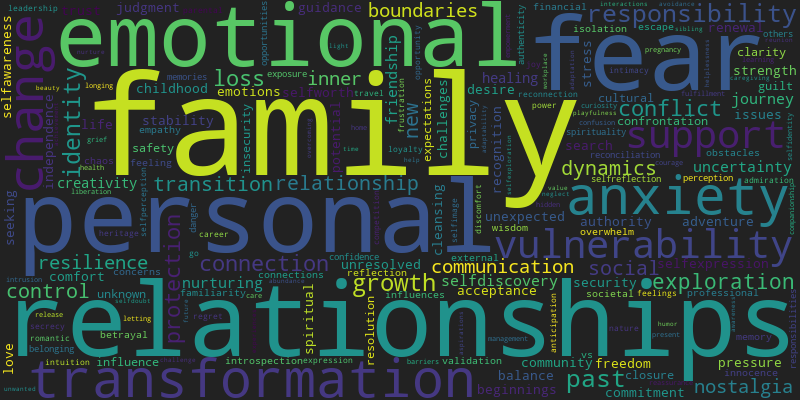
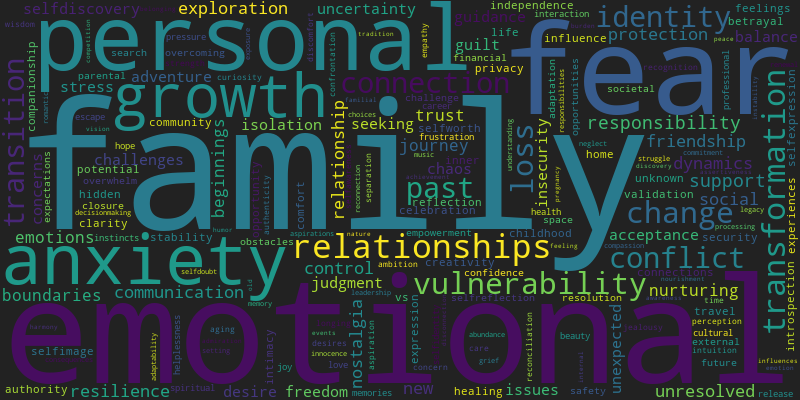
Add files via upload

diff --git a/index.html b/index.html
@@ -1,6 +1,6 @@
 <div style="padding-top: 50px;"></div>
 <h1 style="text-align:center;">Dreamverse State</h1>
-<h2 style="text-align:center;">September 30, 2024</h2>
+<h2 style="text-align:center;">October 31, 2024</h2>
 <div style="padding: 80px;"><html>
     <head>
         <meta charset="utf-8">
@@ -91,8 +91,8 @@
                   
 
                   // parsing and collecting nodes and edges from the python
-                  nodes = new vis.DataSet([{"color": "#CFE401", "font": {"color": "white"}, "id": "transition", "label": "transition", "shape": "dot", "title": "transition"}, {"color": "#CFE401", "font": {"color": "white"}, "id": "change", "label": "change", "shape": "dot", "title": "change"}, {"color": "#CFE401", "font": {"color": "white"}, "id": "growth", "label": "growth", "shape": "dot", "title": "growth"}, {"color": "#CFE401", "font": {"color": "white"}, "id": "identity", "label": "identity", "shape": "dot", "title": "identity"}, {"color": "#CFE401", "font": {"color": "white"}, "id": "transformation", "label": "transformation", "shape": "dot", "title": "transformation"}, {"color": "#CFE401", "font": {"color": "white"}, "id": "nostalgia", "label": "nostalgia", "shape": "dot", "title": "nostalgia"}, {"color": "#30AF31", "font": {"color": "white"}, "id": "anxiety", "label": "anxiety", "shape": "dot", "title": "anxiety"}, {"color": "#CFE401", "font": {"color": "white"}, "id": "uncertainty", "label": "uncertainty", "shape": "dot", "title": "uncertainty"}, {"color": "#1B681B", "font": {"color": "white"}, "id": "relationships", "label": "relationships", "shape": "dot", "title": "relationships"}, {"color": "#1B681B", "font": {"color": "white"}, "id": "friendship", "label": "friendship", "shape": "dot", "title": "friendship"}, {"color": "#CFE401", "font": {"color": "white"}, "id": "journey", "label": "journey", "shape": "dot", "title": "journey"}, {"color": "#30AF31", "font": {"color": "white"}, "id": "family", "label": "family", "shape": "dot", "title": "family"}, {"color": "#37807D", "font": {"color": "white"}, "id": "new beginnings", "label": "new beginnings", "shape": "dot", "title": "new beginnings"}, {"color": "#30AF31", "font": {"color": "white"}, "id": "nurturing", "label": "nurturing", "shape": "dot", "title": "nurturing"}, {"color": "#37807D", "font": {"color": "white"}, "id": "support", "label": "support", "shape": "dot", "title": "support"}, {"color": "#37807D", "font": {"color": "white"}, "id": "potential", "label": "potential", "shape": "dot", "title": "potential"}, {"color": "#30AF31", "font": {"color": "white"}, "id": "trust", "label": "trust", "shape": "dot", "title": "trust"}, {"color": "#30AF31", "font": {"color": "white"}, "id": "fear", "label": "fear", "shape": "dot", "title": "fear"}, {"color": "#1B681B", "font": {"color": "white"}, "id": "adventure", "label": "adventure", "shape": "dot", "title": "adventure"}, {"color": "#37807D", "font": {"color": "white"}, "id": "loss", "label": "loss", "shape": "dot", "title": "loss"}, {"color": "#30AF31", "font": {"color": "white"}, "id": "vulnerability", "label": "vulnerability", "shape": "dot", "title": "vulnerability"}, {"color": "#1B681B", "font": {"color": "white"}, "id": "creativity", "label": "creativity", "shape": "dot", "title": "creativity"}, {"color": "#1B681B", "font": {"color": "white"}, "id": "selfdiscovery", "label": "selfdiscovery", "shape": "dot", "title": "selfdiscovery"}, {"color": "#1B681B", "font": {"color": "white"}, "id": "selfexpression", "label": "selfexpression", "shape": "dot", "title": "selfexpression"}, {"color": "#CFE401", "font": {"color": "white"}, "id": "renewal", "label": "renewal", "shape": "dot", "title": "renewal"}, {"color": "#CFE401", "font": {"color": "white"}, "id": "personal growth", "label": "personal growth", "shape": "dot", "title": "personal growth"}, {"color": "#CFE401", "font": {"color": "white"}, "id": "healing", "label": "healing", "shape": "dot", "title": "healing"}, {"color": "#30AF31", "font": {"color": "white"}, "id": "protection", "label": "protection", "shape": "dot", "title": "protection"}, {"color": "#CFE401", "font": {"color": "white"}, "id": "spirituality", "label": "spirituality", "shape": "dot", "title": "spirituality"}, {"color": "#CFE401", "font": {"color": "white"}, "id": "reconciliation", "label": "reconciliation", "shape": "dot", "title": "reconciliation"}, {"color": "#30AF31", "font": {"color": "white"}, "id": "family dynamics", "label": "family dynamics", "shape": "dot", "title": "family dynamics"}, {"color": "#30AF31", "font": {"color": "white"}, "id": "responsibility", "label": "responsibility", "shape": "dot", "title": "responsibility"}, {"color": "#30AF31", "font": {"color": "white"}, "id": "empathy", "label": "empathy", "shape": "dot", "title": "empathy"}, {"color": "#1B681B", "font": {"color": "white"}, "id": "exploration", "label": "exploration", "shape": "dot", "title": "exploration"}, {"color": "#30AF31", "font": {"color": "white"}, "id": "overwhelm", "label": "overwhelm", "shape": "dot", "title": "overwhelm"}, {"color": "#30AF31", "font": {"color": "white"}, "id": "caregiving", "label": "caregiving", "shape": "dot", "title": "caregiving"}, {"color": "#30AF31", "font": {"color": "white"}, "id": "stress", "label": "stress", "shape": "dot", "title": "stress"}, {"color": "#30AF31", "font": {"color": "white"}, "id": "resilience", "label": "resilience", "shape": "dot", "title": "resilience"}, {"color": "#30AF31", "font": {"color": "white"}, "id": "exposure", "label": "exposure", "shape": "dot", "title": "exposure"}, {"color": "#CFE401", "font": {"color": "white"}, "id": "confusion", "label": "confusion", "shape": "dot", "title": "confusion"}, {"color": "#CFE401", "font": {"color": "white"}, "id": "cultural heritage", "label": "cultural heritage", "shape": "dot", "title": "cultural heritage"}, {"color": "#CFE401", "font": {"color": "white"}, "id": "childhood", "label": "childhood", "shape": "dot", "title": "childhood"}, {"color": "#1B681B", "font": {"color": "white"}, "id": "freedom", "label": "freedom", "shape": "dot", "title": "freedom"}, {"color": "#FEDF55", "font": {"color": "white"}, "id": "boundaries", "label": "boundaries", "shape": "dot", "title": "boundaries"}, {"color": "#FEDF55", "font": {"color": "white"}, "id": "control", "label": "control", "shape": "dot", "title": "control"}, {"color": "#30AF31", "font": {"color": "white"}, "id": "escape", "label": "escape", "shape": "dot", "title": "escape"}, {"color": "#37807D", "font": {"color": "white"}, "id": "grief", "label": "grief", "shape": "dot", "title": "grief"}]);
-                  edges = new vis.DataSet([{"from": "transition", "to": "change", "value": 4}, {"from": "change", "to": "growth", "value": 4}, {"from": "change", "to": "identity", "value": 7}, {"from": "change", "to": "transformation", "value": 8}, {"from": "change", "to": "nostalgia", "value": 5}, {"from": "change", "to": "anxiety", "value": 5}, {"from": "change", "to": "uncertainty", "value": 4}, {"from": "growth", "to": "identity", "value": 4}, {"from": "identity", "to": "transformation", "value": 5}, {"from": "identity", "to": "responsibility", "value": 4}, {"from": "identity", "to": "protection", "value": 4}, {"from": "identity", "to": "cultural heritage", "value": 4}, {"from": "transformation", "to": "relationships", "value": 5}, {"from": "transformation", "to": "journey", "value": 5}, {"from": "transformation", "to": "support", "value": 4}, {"from": "transformation", "to": "creativity", "value": 4}, {"from": "transformation", "to": "uncertainty", "value": 4}, {"from": "transformation", "to": "renewal", "value": 7}, {"from": "transformation", "to": "nostalgia", "value": 6}, {"from": "transformation", "to": "family", "value": 4}, {"from": "transformation", "to": "personal growth", "value": 4}, {"from": "transformation", "to": "selfdiscovery", "value": 6}, {"from": "transformation", "to": "healing", "value": 7}, {"from": "transformation", "to": "protection", "value": 4}, {"from": "transformation", "to": "spirituality", "value": 4}, {"from": "transformation", "to": "reconciliation", "value": 4}, {"from": "nostalgia", "to": "responsibility", "value": 4}, {"from": "nostalgia", "to": "childhood", "value": 4}, {"from": "anxiety", "to": "responsibility", "value": 11}, {"from": "anxiety", "to": "vulnerability", "value": 8}, {"from": "anxiety", "to": "family", "value": 7}, {"from": "anxiety", "to": "uncertainty", "value": 5}, {"from": "anxiety", "to": "fear", "value": 5}, {"from": "anxiety", "to": "protection", "value": 7}, {"from": "uncertainty", "to": "journey", "value": 4}, {"from": "uncertainty", "to": "family", "value": 4}, {"from": "uncertainty", "to": "confusion", "value": 4}, {"from": "relationships", "to": "friendship", "value": 4}, {"from": "friendship", "to": "adventure", "value": 4}, {"from": "journey", "to": "family", "value": 4}, {"from": "family", "to": "responsibility", "value": 9}, {"from": "family", "to": "vulnerability", "value": 4}, {"from": "family", "to": "fear", "value": 4}, {"from": "family", "to": "protection", "value": 12}, {"from": "new beginnings", "to": "nurturing", "value": 6}, {"from": "new beginnings", "to": "support", "value": 4}, {"from": "new beginnings", "to": "potential", "value": 5}, {"from": "nurturing", "to": "responsibility", "value": 8}, {"from": "nurturing", "to": "protection", "value": 4}, {"from": "support", "to": "loss", "value": 4}, {"from": "support", "to": "vulnerability", "value": 4}, {"from": "trust", "to": "fear", "value": 6}, {"from": "fear", "to": "vulnerability", "value": 4}, {"from": "fear", "to": "resilience", "value": 4}, {"from": "fear", "to": "protection", "value": 4}, {"from": "fear", "to": "escape", "value": 4}, {"from": "adventure", "to": "exploration", "value": 4}, {"from": "loss", "to": "responsibility", "value": 5}, {"from": "loss", "to": "protection", "value": 4}, {"from": "loss", "to": "grief", "value": 4}, {"from": "vulnerability", "to": "family dynamics", "value": 4}, {"from": "vulnerability", "to": "responsibility", "value": 9}, {"from": "vulnerability", "to": "stress", "value": 4}, {"from": "vulnerability", "to": "resilience", "value": 4}, {"from": "vulnerability", "to": "protection", "value": 9}, {"from": "vulnerability", "to": "exposure", "value": 5}, {"from": "creativity", "to": "selfdiscovery", "value": 5}, {"from": "creativity", "to": "selfexpression", "value": 6}, {"from": "selfdiscovery", "to": "exploration", "value": 6}, {"from": "protection", "to": "responsibility", "value": 13}, {"from": "protection", "to": "resilience", "value": 7}, {"from": "family dynamics", "to": "responsibility", "value": 4}, {"from": "responsibility", "to": "empathy", "value": 4}, {"from": "responsibility", "to": "overwhelm", "value": 5}, {"from": "responsibility", "to": "caregiving", "value": 4}, {"from": "exploration", "to": "freedom", "value": 4}, {"from": "boundaries", "to": "control", "value": 4}]);
+                  nodes = new vis.DataSet([{"color": "#C18D49", "font": {"color": "white"}, "id": "selfdiscovery", "label": "selfdiscovery", "shape": "dot", "title": "selfdiscovery"}, {"color": "#C18D49", "font": {"color": "white"}, "id": "transition", "label": "transition", "shape": "dot", "title": "transition"}, {"color": "#C18D49", "font": {"color": "white"}, "id": "personal growth", "label": "personal growth", "shape": "dot", "title": "personal growth"}, {"color": "#C18D49", "font": {"color": "white"}, "id": "change", "label": "change", "shape": "dot", "title": "change"}, {"color": "#587FA1", "font": {"color": "white"}, "id": "uncertainty", "label": "uncertainty", "shape": "dot", "title": "uncertainty"}, {"color": "#C26042", "font": {"color": "white"}, "id": "resilience", "label": "resilience", "shape": "dot", "title": "resilience"}, {"color": "#C26042", "font": {"color": "white"}, "id": "vulnerability", "label": "vulnerability", "shape": "dot", "title": "vulnerability"}, {"color": "#C26042", "font": {"color": "white"}, "id": "anxiety", "label": "anxiety", "shape": "dot", "title": "anxiety"}, {"color": "#C18D49", "font": {"color": "white"}, "id": "comfort", "label": "comfort", "shape": "dot", "title": "comfort"}, {"color": "#C26042", "font": {"color": "white"}, "id": "isolation", "label": "isolation", "shape": "dot", "title": "isolation"}, {"color": "#BF49D7", "font": {"color": "white"}, "id": "family", "label": "family", "shape": "dot", "title": "family"}, {"color": "#BF49D7", "font": {"color": "white"}, "id": "support", "label": "support", "shape": "dot", "title": "support"}, {"color": "#C18D49", "font": {"color": "white"}, "id": "nostalgia", "label": "nostalgia", "shape": "dot", "title": "nostalgia"}, {"color": "#BF49D7", "font": {"color": "white"}, "id": "tradition", "label": "tradition", "shape": "dot", "title": "tradition"}, {"color": "#BF49D7", "font": {"color": "white"}, "id": "protection", "label": "protection", "shape": "dot", "title": "protection"}, {"color": "#BF49D7", "font": {"color": "white"}, "id": "nurturing", "label": "nurturing", "shape": "dot", "title": "nurturing"}, {"color": "#BF49D7", "font": {"color": "white"}, "id": "security", "label": "security", "shape": "dot", "title": "security"}, {"color": "#C26042", "font": {"color": "white"}, "id": "loss", "label": "loss", "shape": "dot", "title": "loss"}, {"color": "#BF49D7", "font": {"color": "white"}, "id": "responsibility", "label": "responsibility", "shape": "dot", "title": "responsibility"}, {"color": "#C18D49", "font": {"color": "white"}, "id": "identity", "label": "identity", "shape": "dot", "title": "identity"}, {"color": "#C26042", "font": {"color": "white"}, "id": "insecurity", "label": "insecurity", "shape": "dot", "title": "insecurity"}, {"color": "#C26042", "font": {"color": "white"}, "id": "fear", "label": "fear", "shape": "dot", "title": "fear"}, {"color": "#C26042", "font": {"color": "white"}, "id": "selfimage", "label": "selfimage", "shape": "dot", "title": "selfimage"}, {"color": "#C26042", "font": {"color": "white"}, "id": "privacy", "label": "privacy", "shape": "dot", "title": "privacy"}, {"color": "#C26042", "font": {"color": "white"}, "id": "communication", "label": "communication", "shape": "dot", "title": "communication"}, {"color": "#C26042", "font": {"color": "white"}, "id": "loss control", "label": "loss control", "shape": "dot", "title": "loss control"}, {"color": "#C18D49", "font": {"color": "white"}, "id": "transformation", "label": "transformation", "shape": "dot", "title": "transformation"}, {"color": "#C26042", "font": {"color": "white"}, "id": "conflict", "label": "conflict", "shape": "dot", "title": "conflict"}, {"color": "#BF49D7", "font": {"color": "white"}, "id": "overwhelm", "label": "overwhelm", "shape": "dot", "title": "overwhelm"}, {"color": "#BF49D7", "font": {"color": "white"}, "id": "guilt", "label": "guilt", "shape": "dot", "title": "guilt"}, {"color": "#C18D49", "font": {"color": "white"}, "id": "growth", "label": "growth", "shape": "dot", "title": "growth"}, {"color": "#C18D49", "font": {"color": "white"}, "id": "new beginnings", "label": "new beginnings", "shape": "dot", "title": "new beginnings"}, {"color": "#C18D49", "font": {"color": "white"}, "id": "relationships", "label": "relationships", "shape": "dot", "title": "relationships"}, {"color": "#587FA1", "font": {"color": "white"}, "id": "friendship", "label": "friendship", "shape": "dot", "title": "friendship"}, {"color": "#C18D49", "font": {"color": "white"}, "id": "death", "label": "death", "shape": "dot", "title": "death"}, {"color": "#587FA1", "font": {"color": "white"}, "id": "journey", "label": "journey", "shape": "dot", "title": "journey"}, {"color": "#587FA1", "font": {"color": "white"}, "id": "exploration", "label": "exploration", "shape": "dot", "title": "exploration"}, {"color": "#587FA1", "font": {"color": "white"}, "id": "adventure", "label": "adventure", "shape": "dot", "title": "adventure"}, {"color": "#C18D49", "font": {"color": "white"}, "id": "selfexpression", "label": "selfexpression", "shape": "dot", "title": "selfexpression"}, {"color": "#C18D49", "font": {"color": "white"}, "id": "acceptance", "label": "acceptance", "shape": "dot", "title": "acceptance"}, {"color": "#587FA1", "font": {"color": "white"}, "id": "freedom", "label": "freedom", "shape": "dot", "title": "freedom"}, {"color": "#C18D49", "font": {"color": "white"}, "id": "control", "label": "control", "shape": "dot", "title": "control"}, {"color": "#C18D49", "font": {"color": "white"}, "id": "introspection", "label": "introspection", "shape": "dot", "title": "introspection"}, {"color": "#C26042", "font": {"color": "white"}, "id": "trust", "label": "trust", "shape": "dot", "title": "trust"}, {"color": "#FB2069", "font": {"color": "white"}, "id": "unresolved emotions", "label": "unresolved emotions", "shape": "dot", "title": "unresolved emotions"}, {"color": "#FB2069", "font": {"color": "white"}, "id": "past relationships", "label": "past relationships", "shape": "dot", "title": "past relationships"}, {"color": "#FB2069", "font": {"color": "white"}, "id": "intimacy", "label": "intimacy", "shape": "dot", "title": "intimacy"}, {"color": "#C26042", "font": {"color": "white"}, "id": "challenges", "label": "challenges", "shape": "dot", "title": "challenges"}]);
+                  edges = new vis.DataSet([{"from": "selfdiscovery", "to": "transition", "value": 5}, {"from": "selfdiscovery", "to": "personal growth", "value": 7}, {"from": "transition", "to": "change", "value": 6}, {"from": "transition", "to": "personal growth", "value": 5}, {"from": "transition", "to": "uncertainty", "value": 5}, {"from": "transition", "to": "resilience", "value": 5}, {"from": "transition", "to": "vulnerability", "value": 4}, {"from": "transition", "to": "anxiety", "value": 5}, {"from": "transition", "to": "comfort", "value": 4}, {"from": "personal growth", "to": "new beginnings", "value": 5}, {"from": "personal growth", "to": "nostalgia", "value": 5}, {"from": "personal growth", "to": "relationships", "value": 4}, {"from": "personal growth", "to": "transformation", "value": 10}, {"from": "personal growth", "to": "change", "value": 5}, {"from": "change", "to": "family", "value": 6}, {"from": "change", "to": "anxiety", "value": 8}, {"from": "change", "to": "identity", "value": 6}, {"from": "change", "to": "transformation", "value": 17}, {"from": "change", "to": "loss", "value": 5}, {"from": "change", "to": "death", "value": 8}, {"from": "uncertainty", "to": "anxiety", "value": 4}, {"from": "uncertainty", "to": "resilience", "value": 6}, {"from": "uncertainty", "to": "journey", "value": 5}, {"from": "resilience", "to": "isolation", "value": 4}, {"from": "resilience", "to": "vulnerability", "value": 6}, {"from": "resilience", "to": "anxiety", "value": 7}, {"from": "resilience", "to": "transformation", "value": 7}, {"from": "resilience", "to": "fear", "value": 8}, {"from": "resilience", "to": "challenges", "value": 4}, {"from": "vulnerability", "to": "isolation", "value": 4}, {"from": "vulnerability", "to": "support", "value": 4}, {"from": "vulnerability", "to": "anxiety", "value": 14}, {"from": "vulnerability", "to": "insecurity", "value": 5}, {"from": "vulnerability", "to": "responsibility", "value": 4}, {"from": "vulnerability", "to": "fear", "value": 4}, {"from": "vulnerability", "to": "selfimage", "value": 5}, {"from": "vulnerability", "to": "loss", "value": 5}, {"from": "vulnerability", "to": "comfort", "value": 4}, {"from": "vulnerability", "to": "privacy", "value": 5}, {"from": "anxiety", "to": "family", "value": 9}, {"from": "anxiety", "to": "communication", "value": 4}, {"from": "anxiety", "to": "fear", "value": 13}, {"from": "anxiety", "to": "selfimage", "value": 4}, {"from": "anxiety", "to": "loss control", "value": 6}, {"from": "anxiety", "to": "transformation", "value": 5}, {"from": "anxiety", "to": "responsibility", "value": 4}, {"from": "anxiety", "to": "loss", "value": 8}, {"from": "anxiety", "to": "protection", "value": 6}, {"from": "anxiety", "to": "conflict", "value": 4}, {"from": "comfort", "to": "nostalgia", "value": 4}, {"from": "family", "to": "support", "value": 6}, {"from": "family", "to": "nostalgia", "value": 5}, {"from": "family", "to": "tradition", "value": 4}, {"from": "family", "to": "protection", "value": 13}, {"from": "family", "to": "nurturing", "value": 4}, {"from": "family", "to": "security", "value": 4}, {"from": "family", "to": "loss", "value": 9}, {"from": "family", "to": "responsibility", "value": 5}, {"from": "family", "to": "identity", "value": 4}, {"from": "support", "to": "responsibility", "value": 5}, {"from": "nostalgia", "to": "relationships", "value": 4}, {"from": "nostalgia", "to": "transformation", "value": 5}, {"from": "nostalgia", "to": "friendship", "value": 4}, {"from": "protection", "to": "responsibility", "value": 5}, {"from": "protection", "to": "nurturing", "value": 4}, {"from": "protection", "to": "fear", "value": 4}, {"from": "nurturing", "to": "new beginnings", "value": 5}, {"from": "loss", "to": "fear", "value": 4}, {"from": "responsibility", "to": "overwhelm", "value": 4}, {"from": "responsibility", "to": "guilt", "value": 4}, {"from": "responsibility", "to": "growth", "value": 4}, {"from": "identity", "to": "new beginnings", "value": 4}, {"from": "identity", "to": "relationships", "value": 6}, {"from": "identity", "to": "selfexpression", "value": 4}, {"from": "identity", "to": "transformation", "value": 7}, {"from": "identity", "to": "acceptance", "value": 5}, {"from": "fear", "to": "conflict", "value": 4}, {"from": "fear", "to": "transformation", "value": 11}, {"from": "communication", "to": "trust", "value": 4}, {"from": "transformation", "to": "journey", "value": 4}, {"from": "transformation", "to": "exploration", "value": 7}, {"from": "transformation", "to": "control", "value": 4}, {"from": "transformation", "to": "death", "value": 7}, {"from": "transformation", "to": "introspection", "value": 4}, {"from": "transformation", "to": "growth", "value": 5}, {"from": "friendship", "to": "exploration", "value": 4}, {"from": "friendship", "to": "adventure", "value": 6}, {"from": "journey", "to": "exploration", "value": 5}, {"from": "exploration", "to": "adventure", "value": 5}, {"from": "exploration", "to": "freedom", "value": 7}, {"from": "unresolved emotions", "to": "past relationships", "value": 6}, {"from": "unresolved emotions", "to": "intimacy", "value": 4}]);
 
                   nodeColors = {};
                   allNodes = nodes.get({ returnType: "Object" });
@@ -193,43 +193,40 @@
     
 <br>
 <h1>Initial Reflection</h1>
-<h2>Dreams offer a glimpse into the unconscious mind, revealing the deep-seated fears, desires, and transformative processes within each Seer. The constellations we uncover here are not just random clusters of thoughts, but profound maps of psychological and existential meaning. Each constellation carries insight into individual growth, societal tensions, and the universal quest for meaning. By exploring these constellations, we can better understand not only ourselves but the world around us.</h2>
+<h2>The Dreamverse is a shared psychological landscape, where themes flow like rivers from individual streams into a collective ocean of meaning. These themes, or constellations, emerge as clusters of symbolic experiences, acting as guiding lights for Seers on their journeys of self-discovery. Each constellation signifies a particular area of the psyche, offering reflections on the challenges and aspirations embedded within our shared unconscious. The patterns reveal how humanity navigates the space between personal growth, uncertainty, resilience, familial bonds, and unresolved desires. Through exploring these constellations, Seers are invited to understand not only their individual journeys but the interconnectedness of human experience, fostering insight and growth.</h2>
 <br>
 
 <details>
-  <summary><h1>Name of The Constellation 1: The Inner Conflict of Transformation</h1></summary>
-  <h2>This constellation represents a battle between old identities and new selves. Themes of death, rebirth, change, and resistance are prominent. Psychologically, this cluster points toward the challenges of personal growth, where the desire for transformation is met with internal resistance. Seers might feel stuck between letting go of the familiar and embracing the unknown. The struggle reflects both individual and collective shifts, mirroring how societies face upheavals before growth and evolution.</h2>
+  <summary><h1>Constellation of Self-Discovery and Transformation</h1></summary>
+  <h2>This constellation represents the timeless journey of transformation that each Seer undergoes. The themes here – self-discovery, transition, growth, and acceptance – reflect an inner pilgrimage where one confronts change, explores identity, and embraces new beginnings. This path is often accompanied by nostalgia and introspection, as the old self is remembered and released. Death and control serve as reminders of life’s impermanence and the limited power we hold over external forces, underscoring the importance of self-expression and relational growth. This constellation is a powerful call to Seers to honor the cycles of transformation within themselves, encouraging both surrender and active participation in the emergence of their authentic selves.</h2>
 </details>
 <br>
 
 <details>
-  <summary><h1>Name of The Constellation 2: The Search for Belonging</h1></summary>
-  <h2>Themes of isolation, community, and connection weave through this constellation. Dreams that reveal yearning for acceptance or fear of exclusion show the Seer's deep need for belonging. On a societal level, this constellation reflects the global tension between individualism and collectivism, and the underlying anxiety many feel about finding their place in an increasingly disconnected world. Psychologically, these dreams highlight the importance of relationships in our development and the existential dread of being alone.</h2>
+  <summary><h1>Constellation of Adventure and Freedom</h1></summary>
+  <h2>This grouping emphasizes the human need for freedom, exploration, and the joy of discovery. It mirrors an adventurous spirit that seeks novelty and embraces uncertainty. Through friendship and journeying, Seers experience the companionship and shared wonder that comes with venturing into the unknown. This constellation invites reflection on the importance of breaking away from routine and seeking the world beyond comfort zones, a process that reawakens curiosity and reveals the boundless possibilities that lie ahead. Here, Seers are inspired to see life as a grand adventure, with every moment presenting a new opportunity for connection and self-expansion.</h2>
 </details>
 <br>
 
 <details>
-  <summary><h1>Name of The Constellation 3: The Exploration of the Unknown</h1></summary>
-  <h2>Here, themes of adventure, discovery, and curiosity come together. This constellation speaks to the universal human urge to explore the unknown, both within the self and in the outer world. Dreams of distant lands, unfamiliar faces, or uncharted territories point to the Seer's deep desire for growth and novelty. Psychologically, this cluster reflects a period of expansion and openness in the Seer's life, where the comfort of routine is replaced with a drive for self-exploration.</h2>
+  <summary><h1>Constellation of Resilience and Vulnerability</h1></summary>
+  <h2>In this constellation, the deep-seated themes of anxiety, isolation, trust, and resilience converge. It reflects the psychological terrain encountered when confronting internal and external challenges. Vulnerability, fear, and insecurity emerge as facets of self-image and privacy, often stirred by the potential for loss or conflict. This constellation serves as a powerful reminder of the courage required to communicate authentically and to rebuild trust in oneself and others. In the face of perceived threats to security, Seers are encouraged to tap into their inner strength and to view each challenge as an opportunity to cultivate resilience and deepen self-knowledge.</h2>
 </details>
 <br>
 
 <details>
-  <summary><h1>Name of The Constellation 4: The Shadow Self</h1></summary>
-  <h2>This constellation reveals the darker aspects of the psyche—fears, guilt, and suppressed desires. Themes of confrontation with one's shadow emerge in dreams filled with fearsome creatures, personal demons, or moral dilemmas. Psychologically, these dreams represent the Seer's attempt to integrate their shadow self, acknowledging the parts of themselves they tend to hide. This process, while uncomfortable, is essential for personal growth and healing, as it brings to light the aspects of the self that need acceptance and understanding.</h2>
+  <summary><h1>Constellation of Family and Responsibility</h1></summary>
+  <h2>The themes of this constellation revolve around the foundations of familial bonds, the nurturing of traditions, and the weight of responsibility. It mirrors the safety and support found within family, balanced against feelings of overwhelm and guilt that may arise from expectations. This constellation offers Seers a reflection on the roots of their personal security and the cultural stories they inherit. It invites exploration of how family roles and responsibilities shape identity, reminding Seers of the importance of connection and support, while gently encouraging release from guilt and overwhelm through self-compassion and open communication.</h2>
 </details>
 <br>
 
 <details>
-  <summary><h1>Name of The Constellation 5: The Return to Innocence</h1></summary>
-  <h2>Themes of childhood, simplicity, and purity dominate this constellation. These dreams reflect a longing to return to a state of innocence, perhaps to escape the complexities and burdens of adult life. Psychologically, the Seer may be yearning for a sense of safety and purity that has been lost. This cluster may also represent a desire for renewal or a fresh start, suggesting the Seer's internal need to reconnect with their authentic self, free from societal expectations and pressures.</h2>
+  <summary><h1>Constellation of Unresolved Emotions and Intimacy</h1></summary>
+  <h2>This constellation embodies the lingering echoes of past relationships and unresolved emotions, particularly those tied to intimacy. It suggests the intricate dance between closeness and distance, revealing the complexity of past bonds that may still hold influence. Seers are invited to reflect on how these memories shape their present capacity for connection and vulnerability. By addressing these unresolved emotions, Seers can clear the way for deeper, more fulfilling relationships, while cultivating a compassionate understanding of their own emotional histories.</h2>
 </details>
 <br>
 
-<details>
-  <summary><h1>Final Reflections</h1></summary>
-<h2>The constellations of Dreamverse invite us to explore our internal landscapes, offering powerful insights into our personal journeys. Each Seer is encouraged to reflect on how these constellations resonate with their current life experiences, noticing which themes feel close or distant. The interplay between the constellations highlights not only personal transformation but also our collective evolution. Where do you find yourself in this cosmic map? Which constellations call to you, and what might they be asking you to explore next?</h2>
-</details>
+<h2>Seers, as you journey through these constellations, consider how each resonates with aspects of your life. Notice how certain constellations may feel closer or further from you at various times, shifting as you move through different phases of growth, challenge, and reflection. Allow yourself to connect with the meaning within each cluster, honoring both the individual themes and the broader connections within the shared Dreamverse.</h2>
 <br>
   
 </body>
